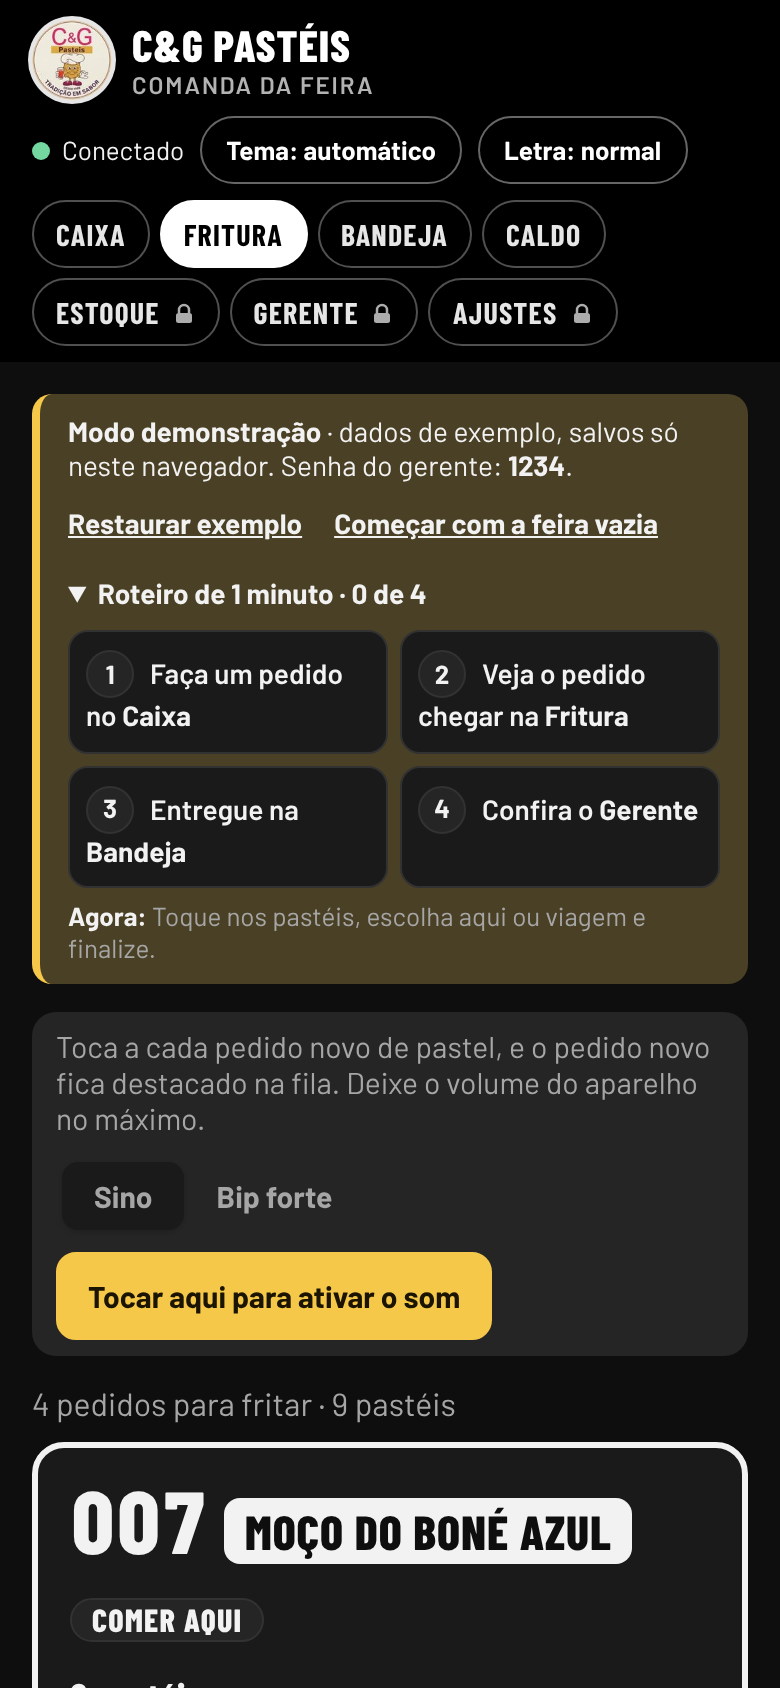
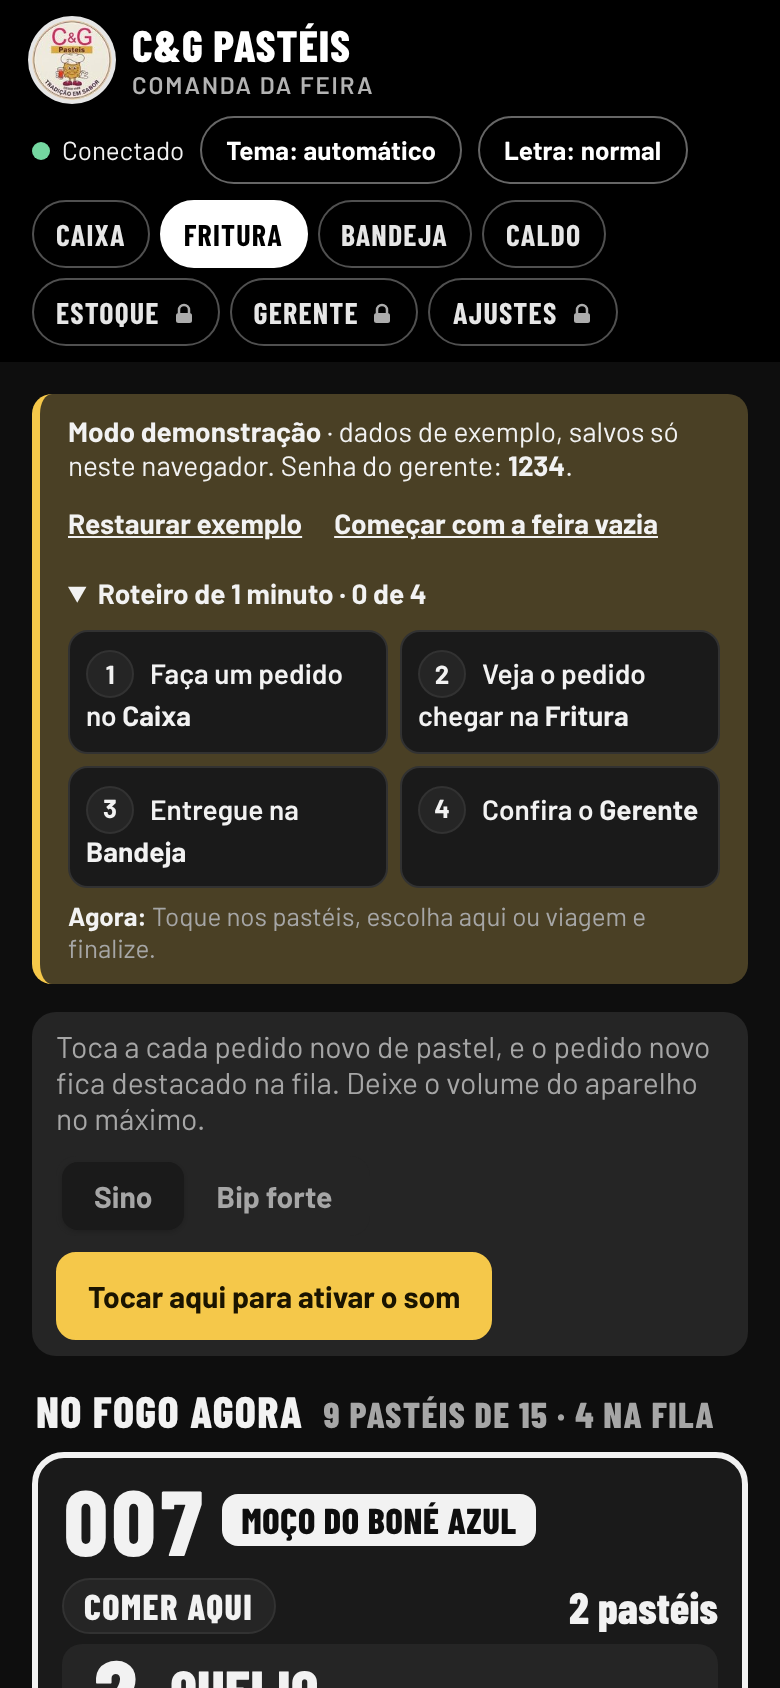
Fritura nova: "no fogo agora" em cartões e próximas levas em linhas
- Os pedidos que cabem na fritada ficam em cartões, um sabor por linha e em
  letra grande; o resto da fila vira uma linha por pedido ("próximas levas")
- Só rola para baixo; no celular, um pedido grande cabe inteiro com o botão
- A caixa do som encolhe para um botão pequeno depois de ligada
- A observação do pedido sai da fritura (fica na bandeja e no caldo)

Claude-Session: https://claude.ai/code/session_01KhnfXZuQSGMguR8c1B4EdE

Changed region(s): [[0.0308, 0.8009, 0.9538, 1.0]]

diff --git a/js/app.js b/js/app.js
@@ -198,10 +198,14 @@ function renderStation(){
   const b=$("#btnSom");
   if(!somOn){b.textContent="Som desligado · ligar";b.className="sbtn"}
   else if(!somArmed()){b.textContent="Tocar aqui para ativar o som";b.className="sbtn arm"}
-  else{b.textContent="Som ligado · desligar";b.className="sbtn on"}
+  else{b.textContent="🔔 Som ligado · desligar";b.className="sbtn on"}
+  st.classList.toggle("min",somOn&&somArmed()&&Date.now()-somAberto>20000);
   $("#stTxt").textContent=somOn?"Toca a cada pedido novo de pastel, e o pedido novo fica destacado na fila. Deixe o volume do aparelho no máximo.":"Sem som neste aparelho. O pedido novo continua destacado na fila.";
   document.querySelectorAll("#somTipo [data-st]").forEach(x=>x.setAttribute("aria-pressed",x.dataset.st===somTipo));$("#somTipo").hidden=!somOn;
 }
+/* o botãozinho "Som ligado" da fritura reabre a caixa do som (para trocar o tipo ou desligar) */
+document.addEventListener("click",e=>{if(!e.target.closest("[data-somtoggle]"))return;$("#station").classList.remove("min");somAberto=Date.now();setTimeout(renderStation,20500)});
+let somAberto=0;
 $("#btnSom").addEventListener("click",()=>{
   if(somOn&&!somArmed()){armSom(true);setTimeout(()=>{if(!alarmOk)somWebAudio();renderStation()},250);return}
   somOn=!somOn;ls.set("cf.som",somOn?"1":"0");if(somOn){armSom(true);setTimeout(()=>{if(!alarmOk)somWebAudio();renderStation()},250)}else if(alarmEl){try{alarmEl.pause()}catch(e){}}renderStation()});
@@ -787,16 +791,18 @@ function renderFritura(){
   const naFila=new Set(list.map(o=>o.id)),soSalg=orders.filter(o=>!o.cancelado&&!o.pastelDone&&!naFila.has(o.id)&&estufaPend(o).length).sort(fila);
   const salgBox=soSalg.length?`<div class="frit-estufa"><div class="lbl">Salgados da estufa · ajude a bandeja</div>${soSalg.map(o=>`<div class="fe-row"><b>${pad(o.num)}</b><span>${nomeTag(o)}${esc(estufaPend(o).join(", "))}</span></div>`).join("")}</div>`:"";
   if(!list.length){$("#lots").innerHTML=undo+salgBox+`<div class="idle"><strong>Nenhum pastel para fritar</strong>${oil.length?"Tudo o que chegou já está no óleo.":"Quando o caixa registrar um pedido, ele aparece aqui."}</div>`+oilBox;return}
-  let acc=0,cut=false,html="";
-  list.forEach((o,i)=>{
-    const fr=paraFritar(o),q=sum(fr);
-    if(!cut&&i>0&&acc+q>cfg.capacity){cut=true;html+=`<div class="fogo-cheio"><span>Fogo cheio · ${acc} de ${cfg.capacity}</span><small>Os pedidos abaixo vão na próxima leva</small></div>`}
-    if(!cut)acc+=q;
-    const items=Object.entries(fr).filter(([,n])=>n>0).sort((a,b)=>b[1]-a[1]).map(([f,n])=>`<div class="fl"><span class="n">${n}</span><span class="s">${esc(f).replace(/\//g,"/<wbr>")}</span></div>`).join("");
-    html+=`<div class="pcard${cut?" later":""}${ehNovo(o)?" novo":""}"><div class="pc-head"><span class="pc-num">${pad(o.num)} ${nomeTag(o)?nomeTag(o)+" ":""}${ehNovo(o)?'<span class="cons novo-tag">Novo</span> ':""}${consTag(o)}${acTag(o)}</span><span class="total">${q} ${q===1?"pastel":"pastéis"}${q>cfg.capacity?' <span style="color:var(--warn)">· maior que o fogo</span>':""}</span></div><div class="flav">${items}</div>${estufaPend(o).length?`<div class="pc-estufa"><span class="lbl">Estufa</span>${esc(estufaPend(o).join(", "))}</div>`:""}${obsTag(o)}${o.novos&&sum(o.novos)?'<div class="nota-novos">Só o que foi acrescentado. O resto deste pedido já foi para o óleo.</div>':""}<button type="button" class="fry-in" data-oleo="${esc(o.id)}">Coloquei no óleo</button></div>`;
-  });
-  const tot=list.reduce((a,o)=>a+sum(paraFritar(o)),0);
-  $("#lots").innerHTML=undo+salgBox+`<p class="muted" style="margin:0 0 10px">${list.length} pedido${list.length===1?"":"s"} para fritar · ${tot} ${tot===1?"pastel":"pastéis"}</p>`+html+oilBox;
+  /* o que cabe no fogo agora (o pedido mais antigo sempre entra, mesmo se for maior que o fogo) e as próximas levas */
+  let acc=0;const fogo=[],prox=[];
+  list.forEach(o=>{const q=sum(paraFritar(o));if(!prox.length&&(!fogo.length||acc+q<=cfg.capacity)){acc+=q;fogo.push(o)}else prox.push(o)});
+  const pl=n=>n+" "+(n===1?"pastel":"pastéis");
+  const cards=fogo.map(o=>{const fr=paraFritar(o),q=sum(fr);
+    const rows=Object.entries(fr).filter(([,n])=>n>0).sort((a,b)=>b[1]-a[1]).map(([f,n])=>`<div class="fr"><span class="n">${n}</span><span class="s">${esc(f).replace(/\//g,"/<wbr>")}</span></div>`).join("");
+    return `<div class="pcard${ehNovo(o)?" novo":""}"><div class="pc-head"><span class="pc-num">${pad(o.num)}</span>${nomeTag(o)}${ehNovo(o)?'<span class="cons novo-tag">Novo</span>':""}${consTag(o)}${acTag(o)}<span class="total">${pl(q)}${q>cfg.capacity?' <span style="color:var(--warn)">· maior que o fogo</span>':""}</span></div>${rows}${estufaPend(o).length?`<div class="pc-estufa"><span class="lbl">Estufa</span>${esc(estufaPend(o).join(", "))}</div>`:""}${o.novos&&sum(o.novos)?'<div class="nota-novos">Só o que foi acrescentado. O resto deste pedido já foi para o óleo.</div>':""}<button type="button" class="fry-in" data-oleo="${esc(o.id)}">Coloquei no óleo</button></div>`}).join("");
+  const minis=prox.map(o=>{const fr=paraFritar(o);
+    return `<div class="fr-mini${ehNovo(o)?" novo":""}"><span class="num">${pad(o.num)}</span><span class="it">${Object.entries(fr).filter(([,n])=>n>0).sort((a,b)=>b[1]-a[1]).map(([f,n])=>`<b>${n}</b> ${esc(f).replace(/\//g,"/<wbr>")}`).join(" · ")}${nomeTag(o)} <span class="tg">${o.consumo==="viagem"?"Viagem":o.consumo==="parte"?"Parte viagem":o.consumo==="aqui"?"Comer aqui":""}</span></span></div>`}).join("");
+  const proxQ=prox.reduce((a,o)=>a+sum(paraFritar(o)),0);
+  $("#lots").innerHTML=undo+salgBox+`<div class="fr-sec">No fogo agora <small>${pl(acc)} de ${cfg.capacity}${list.length>1?` · ${list.length} na fila`:""}</small>${somOn&&somArmed()?'<button type="button" class="fr-som" data-somtoggle>🔔 Som ligado</button>':""}</div><div class="fr-fogo">${cards}</div>`
+    +(prox.length?`<div class="fr-sec">Próximas levas <small>${prox.length} pedido${prox.length===1?"":"s"} · ${pl(proxQ)}</small></div><div class="fr-prox">${minis}</div>`:"")+oilBox;
 }
 document.addEventListener("click",async e=>{
   const b=e.target.closest("[data-oleo]");

diff --git a/css/estilos.css b/css/estilos.css
@@ -488,6 +488,33 @@ main,.overlay .sheet,.cxbar{zoom:var(--zoom,1)}
 .hs-tempo b{font-variant-numeric:tabular-nums}
 .hs-mais{align-self:center;margin-top:4px}
 .hs-pag{margin:0;padding:4px 12px 10px;font-weight:700}
+/* Fritura (opção B): em cima, os pedidos que cabem no fogo agora, um sabor por linha, lado a lado quando cabe;
+   embaixo, as próximas levas numa linha cada. Só rola para baixo, nunca para o lado. */
+.fr-sec{display:flex;align-items:baseline;gap:10px;flex-wrap:wrap;font-family:var(--display);font-weight:800;font-size:22px;text-transform:uppercase;letter-spacing:.03em;margin:2px 2px 8px}
+.fr-sec small{font-size:18px;color:var(--muted)}
+.fr-fogo{display:grid;grid-template-columns:repeat(auto-fill,minmax(min(300px,100%),1fr));gap:10px;align-items:start;margin-bottom:16px}
+.fr-fogo .pcard{margin:0;display:flex;flex-direction:column;gap:5px;padding:8px 12px 10px}
+.fr-fogo .pc-head{margin:0;align-items:center;gap:6px 8px;justify-content:flex-start}
+.fr-fogo .pc-head .total{margin-left:auto}
+.fr-fogo .pc-num{font-size:46px}
+.fr-fogo .pc-head .total{font-family:var(--display);font-weight:800;font-size:22px}
+.fr-fogo .pc-head .cons,.fr-fogo .pc-head .pnome{font-size:18px;margin:0}
+.fr{display:flex;align-items:center;gap:12px;background:var(--soft);border-radius:10px;padding:0 12px}
+.fr .n{font-family:var(--display);font-weight:800;font-size:46px;line-height:1;min-width:30px;text-align:center;font-variant-numeric:tabular-nums}
+.fr .s{font-family:var(--display);font-weight:800;font-size:29px;text-transform:uppercase;line-height:1.05;min-width:0;overflow-wrap:anywhere}
+.fr-fogo .pc-estufa,.fr-fogo .nota-novos{margin-top:2px}
+.fr-fogo .fry-in{margin-top:3px;padding:12px;font-size:22px}
+.fr-prox{display:grid;grid-template-columns:repeat(auto-fill,minmax(min(420px,100%),1fr));gap:8px}
+.fr-mini{display:flex;gap:12px;align-items:baseline;background:var(--surface);border:1px solid var(--line);border-radius:12px;padding:6px 12px}
+.fr-mini.novo{border:3px solid var(--mostarda)}
+.fr-mini .num{font-family:var(--display);font-weight:800;font-size:34px;line-height:1;color:var(--muted);font-variant-numeric:tabular-nums}
+.fr-mini .it{font-family:var(--display);font-weight:800;font-size:25px;text-transform:uppercase;line-height:1.15;min-width:0;overflow-wrap:anywhere}
+.fr-mini .it b{font-size:30px}
+.fr-mini .tg{font-family:var(--display);font-weight:700;font-size:17px;color:var(--muted);text-transform:uppercase;white-space:nowrap}
+.fr-mini .pnome{font-size:16px;padding:1px 8px;margin-left:4px}
+/* caixa do som: depois de ligado vira só um botão pequeno, para sobrar tela para os pedidos */
+.station.min{display:none}
+.fr-som{margin-left:auto;border-radius:999px;border:2px solid var(--line);background:var(--surface);color:var(--fg);font-family:var(--body);font-weight:700;font-size:14px;padding:4px 10px;min-height:36px;text-transform:none;letter-spacing:0}
 .nota-novos{margin-top:10px;font-weight:700;color:var(--muted)}
 .cn-b{display:flex;gap:6px;flex-wrap:wrap;justify-content:flex-end}
 .cn-row .ed{border-radius:10px;padding:10px 12px;font-weight:700;border:2px solid var(--line);background:var(--surface);color:var(--fg);min-height:44px}

diff --git a/tests/e2e/novidades.spec.js b/tests/e2e/novidades.spec.js
@@ -112,3 +112,20 @@ test("senha certa entra sozinha e 3 erradas travam o teclado por 30 segundos", a
   await expect(page.locator("#lkMsg")).toContainText("Muitas tentativas erradas");
   await expect(pad("1")).toBeDisabled();
 });
+
+test("fritura: o que cabe no fogo em cartões, o resto em 'próximas levas', e sem observação", async ({ page }) => {
+  await abrir(page);
+  await fazerPedido(page, { pasteis: Array(14).fill("CARNE") });          // enche o fogo
+  await page.locator('#keysPastel .key[data-f="QUEIJO"]').click();
+  await page.locator('[data-obs="+ maionese"]').click();
+  await page.locator("#consAqui").click();
+  await page.locator("#btnGo").click();
+  const n = (await page.locator("#ovNum").textContent()).trim();
+  await page.locator("#ovClose").click();
+  await irPara(page, "fritura");
+  await expect(page.locator(".fr-sec").first()).toContainText("No fogo agora");
+  await expect(page.locator(".fr-prox .fr-mini", { hasText: n })).toContainText("QUEIJO");
+  await expect(page.locator("#lots .obs")).toHaveCount(0);
+  await irPara(page, "bandeja");
+  await expect(page.locator("#listBandeja .ord", { hasText: n }).locator(".obs")).toContainText("+ maionese");
+});

diff --git a/README.md b/README.md
@@ -29,7 +29,7 @@ A barraca trabalha com dois caixas, uma pessoa fritando, uma na bandeja (que ent
 | Posto | O que tem |
 |---|---|
 | **Caixa** | Cardápio em botões (1 toque = 1 pastel), sabores de caldo combináveis, aviso de sabor acabando, "comer aqui, viagem ou **parte viagem**" (marca item por item o que vai para viagem), troco com sugestão de notas, divisão da conta (partes iguais ou por item). **Observação do pedido** com botões rápidos (+ vinagrete, + maionese, + ketchup) ou texto livre. **Cobrar depois** com nome do cliente, acréscimos na mesma ficha e divisão na hora de receber. Pedido da **equipe** (vai para a produção e desconta do estoque, mas não entra no faturamento). **Editar** e cancelar pedido, com desfazer, e **histórico do dia** com busca. |
-| **Fritura** | Um quadro por pedido, na ordem de chegada, com a marca de "fogo cheio" pela capacidade do óleo. Botão **"Coloquei no óleo"** e lista do que já está fritando. Sino a cada pedido novo, que chega destacado. Num pedido editado, mostra só o que foi acrescentado. |
+| **Fritura** | Feita para ler de longe, com letra grande, inclusive no celular. Em cima, **"No fogo agora"**: os pedidos que cabem na fritada pela capacidade do óleo, um sabor por linha, com o botão **"Coloquei no óleo"**. Embaixo, as **próximas levas**, uma linha por pedido. Quando um pedido vai para o óleo, os próximos sobem sozinhos; só rola para baixo, nunca para o lado. Sino a cada pedido novo, que chega destacado, e a caixa do som encolhe depois de ligada. Num pedido editado, mostra só o que foi acrescentado. A observação do pedido não aparece aqui, só na bandeja e no caldo. |
 | **Bandeja** | **Contador por sabor** ("CARNE 2/3"): mostra o que falta entregar, e o pedido sai sozinho quando tudo foi entregue. Mostra se o pedido ainda está "esperando fritar" ou já está "no óleo", o **nome do cliente** ao lado do número, a **observação** numa faixa amarela, o que vai **para viagem** numa faixa preta, o **total de pastéis** embaixo do número (para conferir pedido grande sem contar), as bebidas numa faixa azul e os salgados da estufa à parte. Pedido que não depende da fritura sobe para o topo. |
 | **Caldo** | Cada copo ou garrafa numa linha, com tamanho, quantidade e sabores separados. |
 | **Estoque** | Estoque padrão de cada feira (terça, sexta e domingo) que já vale no dia, com ajuste do dia, **+ Repor** e **− Perda**. Desconta sozinho a cada venda, e o **banco recusa a venda** de um sabor que acabou, mesmo que o celular de um caixa esteja atrasado. |
